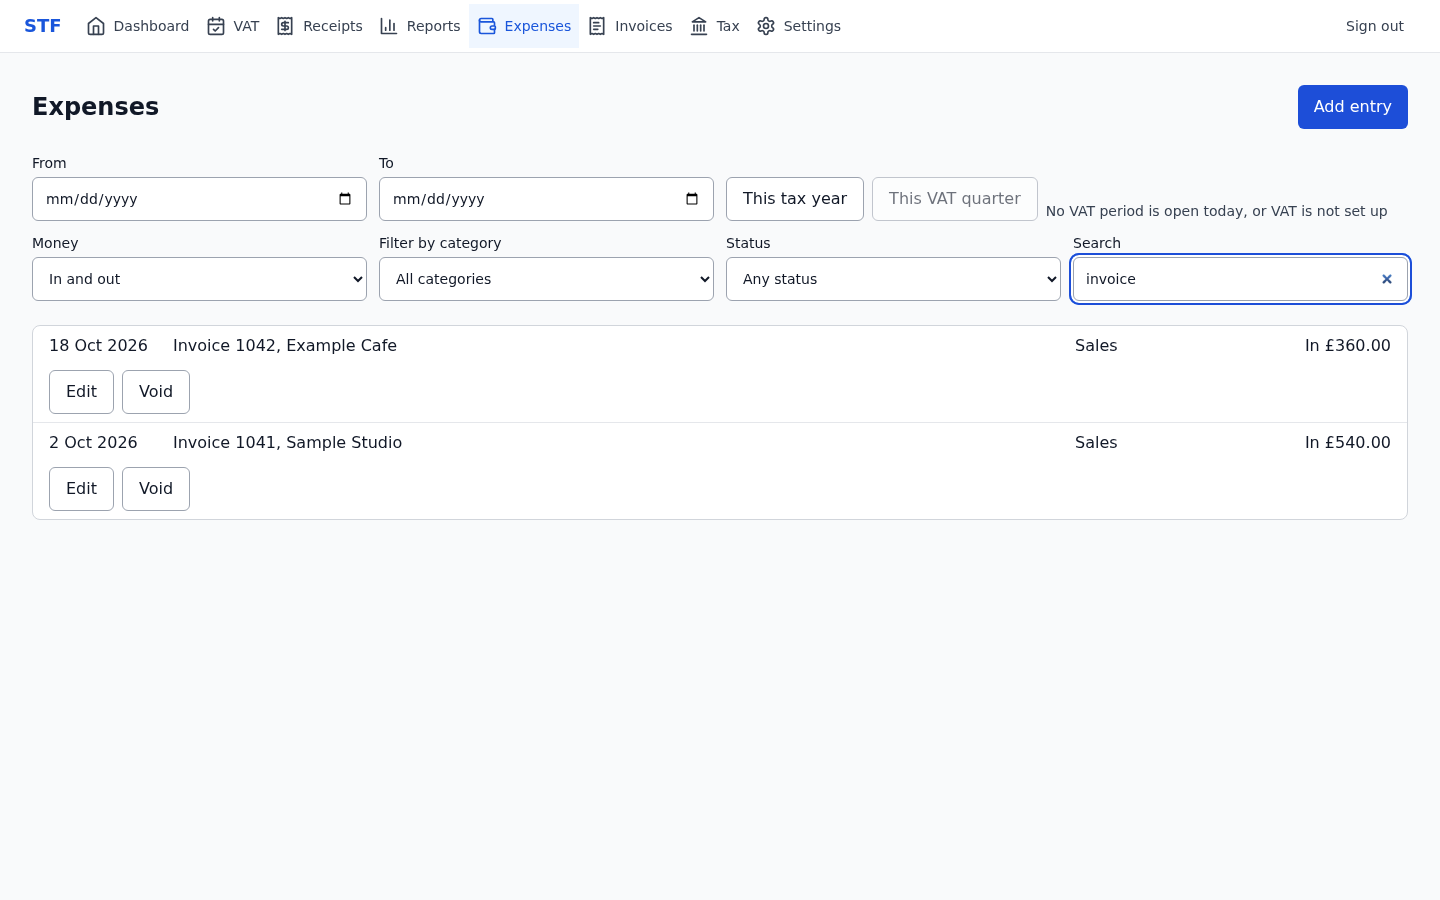
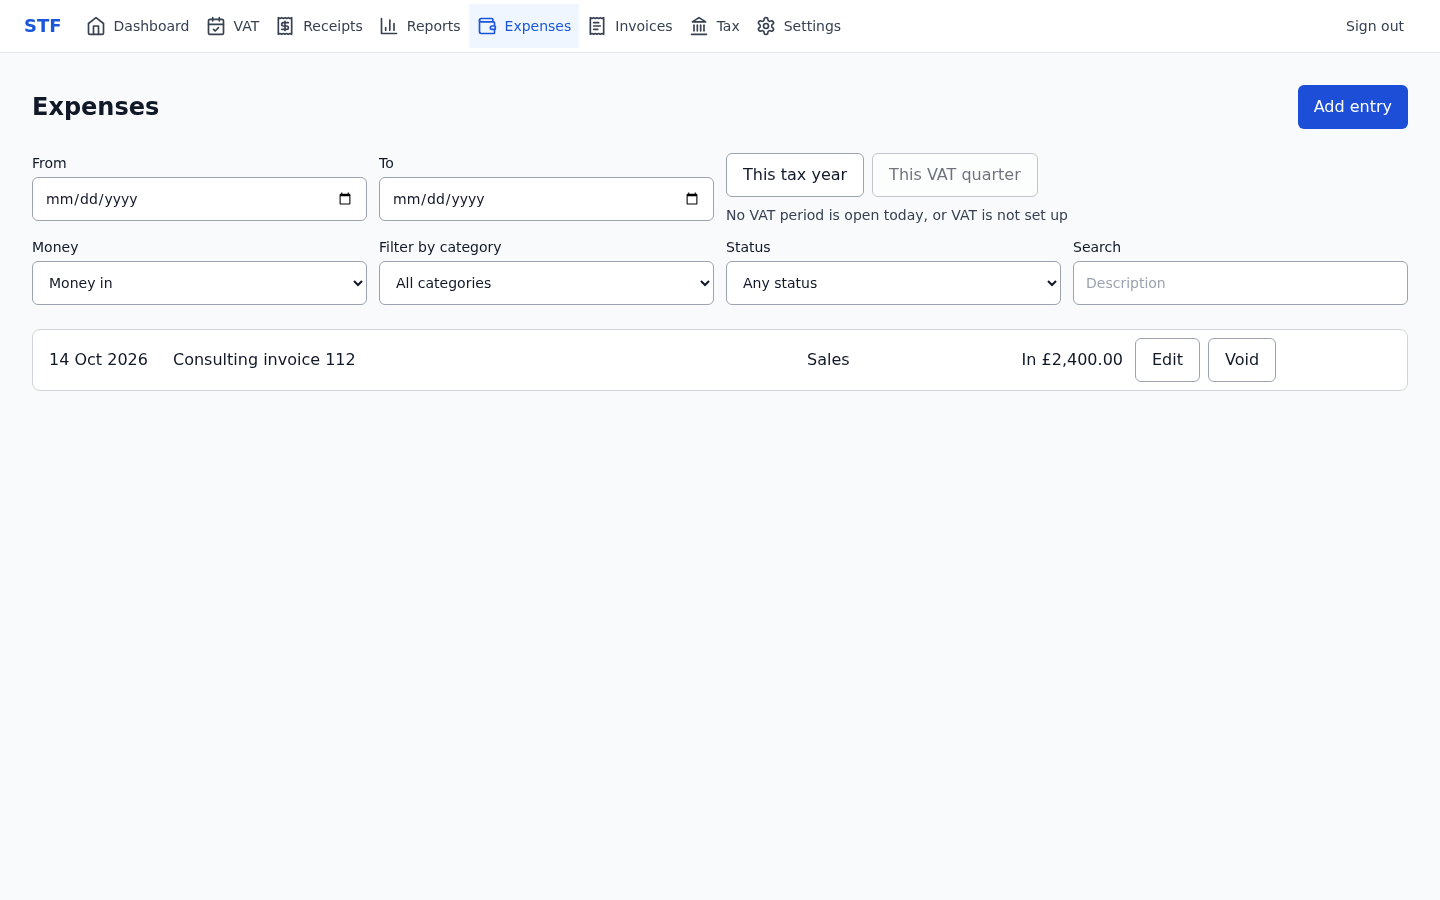
STF-68: address review: one-line rows, From/To guard, edit focus and heading, void dialog and clean 390 px captures

diff --git a/src/pages/EntriesList.tsx b/src/pages/EntriesList.tsx
@@ -1,5 +1,5 @@
 import { useInfiniteQuery, useQuery } from "@tanstack/react-query";
-import { useState } from "react";
+import { useRef, useState } from "react";
 import EntryActions from "./EntryActions";
 import { fetchAccounts } from "../lib/accountsApi";
 import { formatDate } from "../lib/dates";
@@ -87,7 +87,7 @@ function FilterBar({
           This VAT quarter
         </button>
         {quarterReason && (
-          <span className="text-sm text-gray-700">{quarterReason}</span>
+          <span className="w-full text-sm text-gray-700">{quarterReason}</span>
         )}
       </div>
       <label className="block text-sm">
@@ -140,6 +140,7 @@ function FilterBar({
           value={filters.search}
           onChange={(event) => set({ search: event.target.value })}
           placeholder="Description"
+          maxLength={100}
           className={fieldClass}
         />
       </label>
@@ -153,22 +154,37 @@ export default function EntriesList({
   onEdit: (entry: ApiEntry) => void;
 }) {
   const [filters, setFilters] = useState<EntryFilters>(DEFAULT_ENTRY_FILTERS);
+  // The API refuses a range that ends before it starts, so wait until the dates make sense.
+  const rangeReversed = Boolean(
+    filters.from && filters.to && filters.from > filters.to,
+  );
   const entries = useInfiniteQuery({
+    enabled: !rangeReversed,
     queryKey: [...ENTRIES_QUERY_KEY, filters],
     queryFn: ({ pageParam }) => fetchEntries(filters, pageParam),
     initialPageParam: undefined as string | undefined,
     getNextPageParam: (page) => page.nextCursor ?? undefined,
   });
   // The list API drops voided entries, so a voided row stays here until the next refetch.
+  const sectionRef = useRef<HTMLElement>(null);
   const [voidedIds, setVoidedIds] = useState<string[]>([]);
   const rows = entries.data?.pages.flatMap((page) => page.entries) ?? [];
   const isFiltered =
     JSON.stringify(filters) !== JSON.stringify(DEFAULT_ENTRY_FILTERS);
 
   return (
-    <section aria-label="Entries" className="mt-6">
+    <section
+      ref={sectionRef}
+      tabIndex={-1}
+      aria-label="Entries"
+      className="mt-6 focus:outline-none"
+    >
       <FilterBar filters={filters} onChange={setFilters} />
-      {entries.isPending ? (
+      {rangeReversed ? (
+        <p role="alert" className="mt-6 text-red-800">
+          The From date is after the To date. Change one of them to see entries.
+        </p>
+      ) : entries.isPending ? (
         <p role="status" className="mt-6 text-gray-700">
           Loading entries…
         </p>
@@ -202,7 +218,7 @@ export default function EntriesList({
             {rows.map((entry) => (
               <li
                 key={entry.id}
-                className="grid min-h-[44px] gap-1 px-4 py-2 md:grid-cols-[7rem_minmax(0,1fr)_10rem_9rem] md:items-center md:gap-3"
+                className="grid min-h-[44px] gap-1 px-4 py-2 md:grid-cols-[7rem_minmax(0,1fr)_10rem_9rem_16rem] md:items-center md:gap-3"
               >
                 <span>
                   <span className="text-sm text-gray-700 md:hidden">Date: </span>
@@ -255,7 +271,11 @@ export default function EntriesList({
                   <EntryActions
                     entry={entry}
                     onEdit={onEdit}
-                    onVoided={(id) => setVoidedIds((ids) => [...ids, id])}
+                    onVoided={(id) => {
+                      setVoidedIds((ids) => [...ids, id]);
+                      // The row's buttons disappear, so move focus somewhere that still exists.
+                      sectionRef.current?.focus();
+                    }}
                   />
                 )}
               </li>

diff --git a/src/pages/ExpensesPage.tsx b/src/pages/ExpensesPage.tsx
@@ -1,5 +1,5 @@
 import { useMutation, useQuery, useQueryClient } from "@tanstack/react-query";
-import { useState, type FormEvent, type ReactNode } from "react";
+import { useEffect, useRef, useState, type FormEvent, type ReactNode } from "react";
 import { fetchAccounts } from "../lib/accountsApi";
 import { formatDate } from "../lib/dates";
 import {
@@ -120,6 +120,11 @@ function AddEntryForm({
   // An edited entry that already carries VAT keeps its rate even if the VAT number was removed since.
   const showVat = hasVatNumber || vatRate !== 0;
   const [errors, setErrors] = useState<Errors>({});
+  const dateRef = useRef<HTMLInputElement>(null);
+  // Editing opens the form above a possibly long list, so bring it into view and put focus in it.
+  useEffect(() => {
+    if (entry) dateRef.current?.focus();
+  }, [entry]);
 
   const accounts = useQuery({
     queryKey: ["accounts", "active"],
@@ -193,6 +198,11 @@ function AddEntryForm({
       noValidate
       className="mt-4 grid gap-4 rounded-lg border border-gray-300 bg-white p-4 md:grid-cols-2"
     >
+      {entry && (
+        <h2 className="text-lg font-semibold text-gray-900 md:col-span-2">
+          Edit entry: {entry.description}
+        </h2>
+      )}
       <div
         role="group"
         aria-label="Money in or out"
@@ -226,6 +236,7 @@ function AddEntryForm({
           value={date}
           onChange={(event) => setDate(event.target.value)}
           className={fieldClass}
+          ref={dateRef}
           aria-describedby={describedBy("entry-date", errors.date, date)}
           aria-invalid={Boolean(errors.date)}
         />

diff --git a/src/pages/EntryActions.tsx b/src/pages/EntryActions.tsx
@@ -70,12 +70,12 @@ function VoidDialog({
 
 export function LockedMessage() {
   return (
-    <p role="alert" className="mt-2 text-red-800">
+    <p role="alert" className="text-red-800 md:col-span-full">
       This entry is in a VAT period that has been confirmed or filed, so it
       cannot be changed.{" "}
       <Link
         to="/vat"
-        className="inline-flex min-h-[44px] items-center font-medium underline"
+        className="block min-h-[44px] content-center font-medium underline"
       >
         Go to VAT
       </Link>
@@ -106,7 +106,7 @@ export default function EntryActions({
   const failure = confirm.error ?? voiding.error;
 
   return (
-    <div className="md:col-span-full">
+    <>
       <div className="flex flex-wrap gap-2">
         {entry.status === "draft" && (
           <button
@@ -147,7 +147,7 @@ export default function EntryActions({
       {failure instanceof PeriodLockedError ? (
         <LockedMessage />
       ) : failure ? (
-        <p role="alert" className="mt-2 text-red-800">
+        <p role="alert" className="text-red-800 md:col-span-full">
           Something went wrong, so nothing was changed.{" "}
           <button
             type="button"
@@ -160,6 +160,6 @@ export default function EntryActions({
           </button>
         </p>
       ) : null}
-    </div>
+    </>
   );
 }

diff --git a/src/pages/EntriesList.test.tsx b/src/pages/EntriesList.test.tsx
@@ -114,6 +114,15 @@ describe('EntriesList', () => {
     expect(lastParams().get('search')).toBeNull();
   });
 
+  it('explains a From date after the To date instead of asking the API', async () => {
+    await renderList();
+    const requests = entryUrls.length;
+    fireEvent.change(screen.getByLabelText('From'), { target: { value: '2026-06-01' } });
+    fireEvent.change(screen.getByLabelText('To'), { target: { value: '2026-05-01' } });
+    expect(await screen.findByText(/From date is after the To date/)).toBeInTheDocument();
+    expect(entryUrls.length).toBe(requests + 1);
+  });
+
   describe('row actions', () => {
     const voidButton = () => screen.getByRole('button', { name: 'Void' });
 

diff --git a/src/pages/ExpensesPage.test.tsx b/src/pages/ExpensesPage.test.tsx
@@ -168,6 +168,8 @@ describe('ExpensesPage edit entry', () => {
       </QueryClientProvider>,
     );
     fireEvent.click(await screen.findByRole('button', { name: 'Edit' }));
+    expect(await screen.findByRole('heading', { name: /Edit entry/ })).toBeInTheDocument();
+    expect(screen.getByLabelText('Date')).toHaveFocus();
     await within(screen.getByLabelText('Category')).findByRole('option', { name: 'Travel' });
   }
 
